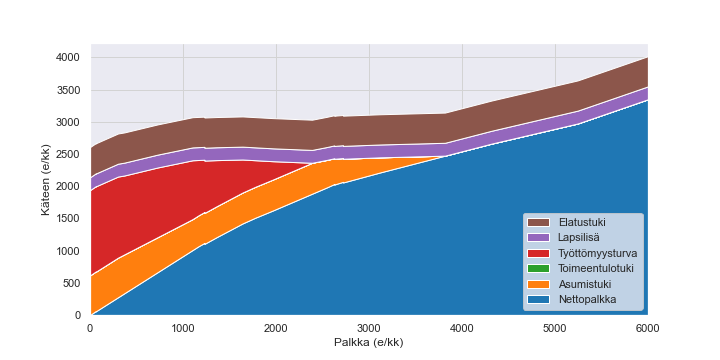
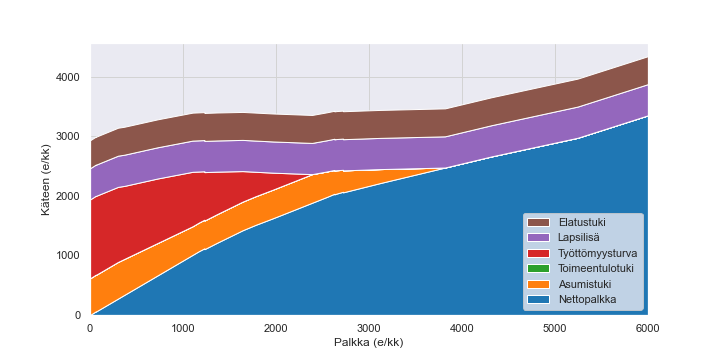
lapsilisä korjattu

diff --git a/fin_benefits/benefits.py b/fin_benefits/benefits.py
@@ -972,7 +972,7 @@ class Benefits():
         lapsilisat=np.array([94.88,104.84,133.79,163.24,182.69])
         if yksinhuoltajakorotus:
             # yksinhuoltajakorotus 53,30 e/lapsi
-            lapsilisat += 63.3
+            lapsilisat += 53.3
             
         return lapsilisat
     
@@ -984,23 +984,23 @@ class Benefits():
             
         return lapsilisat
     
-    def laske_lapsilisa(self,lapsia):
-        lapsilisat=self.lapsilisa()
-    
+    def laske_lapsilisa(self,lapsia,yksinhuoltajakorotus=0):
+        lapsilisat=self.lapsilisa(yksinhuoltajakorotus=yksinhuoltajakorotus)
+
         if lapsia==0:
             tuki=0
         elif lapsia==1:
             tuki=lapsilisat[0]
         elif lapsia==2:
-            tuki=sum(lapsilisat[0:1])
-        elif lapsia==3:
             tuki=sum(lapsilisat[0:2])
-        elif lapsia==4:
+        elif lapsia==3:
             tuki=sum(lapsilisat[0:3])
-        elif lapsia==5:
+        elif lapsia==4:
             tuki=sum(lapsilisat[0:4])
+        elif lapsia==5:
+            tuki=sum(lapsilisat[0:5])
         elif lapsia>5:
-            tuki=sum(lapsilisat[0:4])+(lapsia-5)*lapsilisat[4]
+            tuki=sum(lapsilisat[0:5])+(lapsia-5)*lapsilisat[4]
         else:
             print('error(1))')
         
@@ -1178,7 +1178,11 @@ class Benefits():
                 alle_kouluikaisia=max(0,p['lapsia_kotihoidontuella']-p['lapsia_alle_3v'])
                 q['pvhoito']=max(0,q['pvhoito']-self.kotihoidontuki(p['lapsia_kotihoidontuella'],p['lapsia_alle_3v'],alle_kouluikaisia)) # ok?
             q['pvhoito_ilman_etuuksia']=self.paivahoitomenot(p['lapsia_paivahoidossa'],p['puoliso_tulot']+p['t']+q['elatustuki'],p)
-            q['lapsilisa']=self.laske_lapsilisa(p['lapsia'])
+            if p['aikuisia']==1:
+                yksinhuoltajakorotus=1
+            else:
+                yksinhuoltajakorotus=0
+            q['lapsilisa']=self.laske_lapsilisa(p['lapsia'],yksinhuoltajakorotus=yksinhuoltajakorotus)
         else:
             q['pvhoito']=0
             q['pvhoito_ilman_etuuksia']=0
